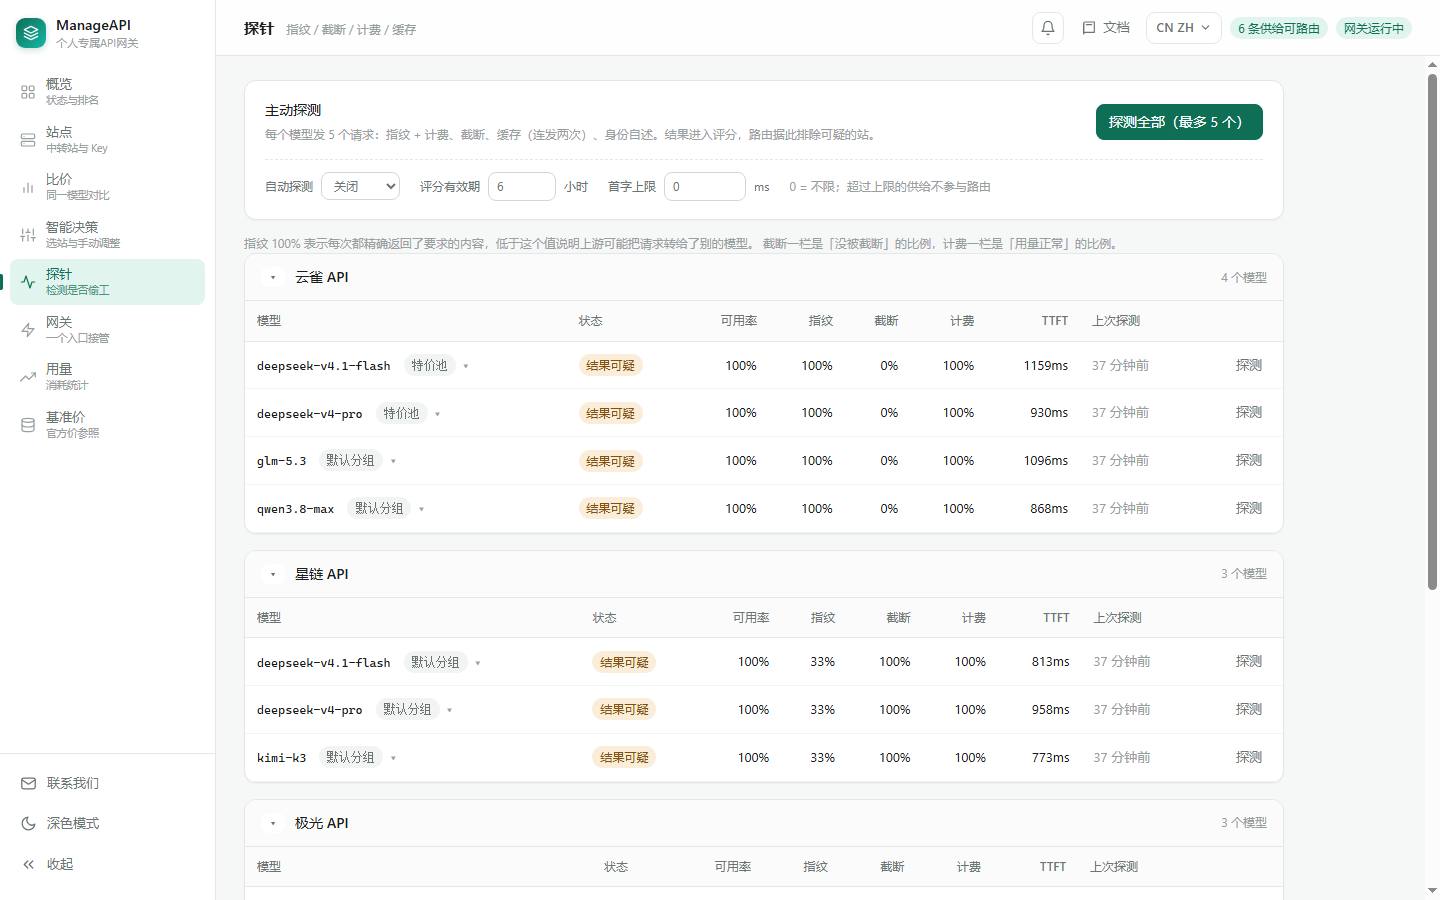
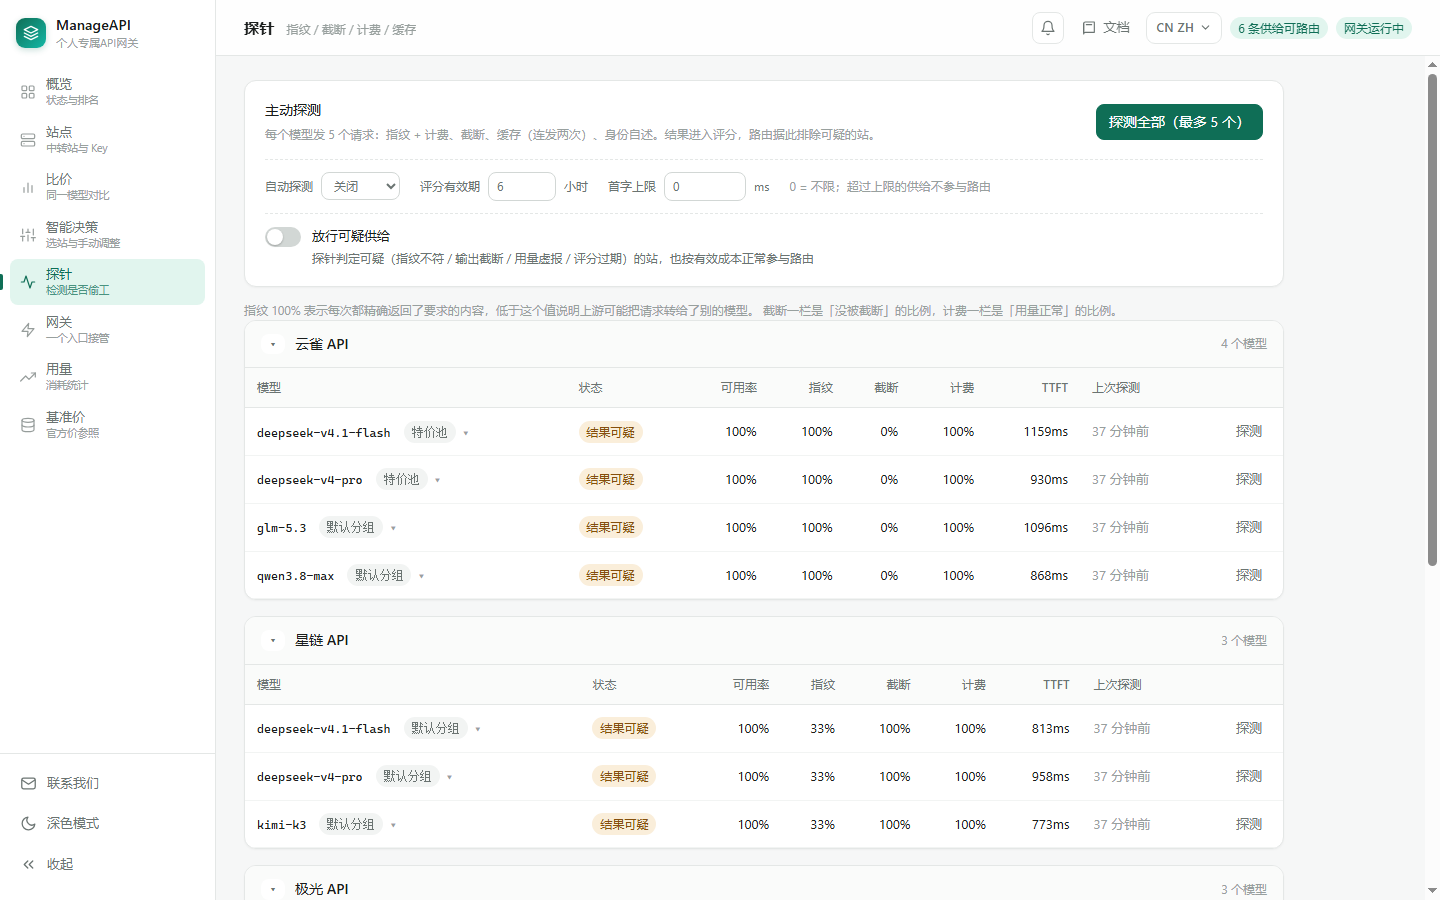
新增「放行可疑供给」开关：可疑/过期的供给也可按有效成本参与路由，默认关闭

diff --git a/web/index.html b/web/index.html
@@ -247,8 +247,10 @@
               · <b>恢复自动</b> —— 清掉手动顺序，回到按有效成本排
             </p>
             <p>
-              手动顺序只影响「同样可用」的那几条。不可信、太慢、评分过期的站永远排在后面，
+              手动顺序只影响「可用」的那几条。不可信、太慢、评分过期的站默认排在后面，
               你拖不动它——<b>可用性是硬判断，不能被手动覆盖</b>。
+              如果你确实想让可疑的站参与竞争，去探针页打开「放行可疑供给」，它们会正常参与排序，
+              状态列会标出「已放行」。
             </p>
 
             <h4 class="doc-h4">探针</h4>
@@ -269,7 +271,14 @@
               · <b>自动探测</b> —— 设间隔后后台定时跑。默认 1 小时，可以关掉。模型多的话建议设长一点，
               每次探测都要花一点 token。<br />
               · <b>评分有效期</b> —— 超过这个时间没重新探测，评分就作废、不再参与路由。<br />
-              · <b>首字上限</b> —— 超过这个延迟的供给不参与路由。0 表示不限。
+              · <b>首字上限</b> —— 超过这个延迟的供给不参与路由。0 表示不限。<br />
+              · <b>放行可疑供给</b> —— 默认关闭。关闭时，探针判定可疑（指纹不符 / 截断 / 虚报 / 评分过期）的站
+              只会排在最后兜底；打开后它们按有效成本正常参与竞争。
+            </p>
+            <p>
+              <b>打开这个开关要清楚代价</b>：可疑的站仍然按「价格 ÷ 质量」排序——质量差一半，成本就翻倍，
+              所以只有便宜到足够多才会被选中。但它确实可能给你返回掉包或截断的结果。
+              省钱优先就打开，输出可信优先就关着。首字上限是独立设置，不受这个开关影响。
             </p>
 
             <h4 class="doc-h4">网关</h4>
@@ -345,8 +354,13 @@
 
             <h4 class="doc-h4">③ 决策：先筛掉，再比价</h4>
             <p>
-              <b>硬约束</b> —— 不可信、太慢、评分过期的，直接排除。<br />
+              <b>硬约束</b> —— 不可信、太慢、评分过期的，默认排到最后只做兜底。<br />
               <b>有效成本排序</b> —— 剩下的按 <code>价格 ÷ 质量</code> 从小到大排。
+            </p>
+            <p>
+              「不可信」这一条是可以用探针页的 <b>放行可疑供给</b> 开关关掉的：打开后它们不再被压到后面，
+              而是和健康的站一起按有效成本竞争。太慢（首字上限）是独立设置，不受那个开关影响。
+              注意开关会同时影响比价页的「最便宜」和概览页的结论，保证推荐和实际路由是同一套口径。
             </p>
             <p>
               为什么用除法而不是加权求和？因为「便宜 10% 但降智 30%」的站，加权后可能仍然胜出；
@@ -528,8 +542,10 @@
               · <b>Back to auto</b> — clears the manual order
             </p>
             <p>
-              Manual order only affects rows that are equally usable. Untrusted, too-slow or expired supplies always
-              sink to the bottom and cannot be dragged up — <b>availability is a hard rule, not an opinion</b>.
+              Manual order only affects rows that are usable. Untrusted, too-slow or expired supplies sink to the
+              bottom by default and cannot be dragged up — <b>availability is a hard rule, not an opinion</b>.
+              If you do want suspicious sites to compete, turn on "Allow suspicious supplies" on the Probes page;
+              their status then reads "allowed".
             </p>
 
             <h4 class="doc-h4">Probes</h4>
@@ -550,7 +566,16 @@
               · <b>Auto probe</b> — runs in the background on an interval. Default 1 hour; can be turned off. With many
               models, set it longer — every probe costs a few tokens.<br />
               · <b>Score TTL</b> — a score older than this is discarded and no longer used for routing.<br />
-              · <b>TTFT limit</b> — supplies slower than this are excluded from routing. 0 means no limit.
+              · <b>TTFT limit</b> — supplies slower than this are excluded from routing. 0 means no limit.<br />
+              · <b>Allow suspicious supplies</b> — off by default. When off, sites the probes flagged
+              (fingerprint mismatch / truncated / inflated / expired score) are only a last resort; when on,
+              they compete on effective cost like everything else.
+            </p>
+            <p>
+              <b>Know the trade-off before turning it on</b>: suspicious sites still sort by price ÷ quality, so half
+              the quality doubles the cost — only a large enough discount wins. But they can genuinely return swapped
+              or truncated answers. Turn it on when saving money matters more; leave it off when trustworthy output does.
+              The TTFT limit is separate and unaffected.
             </p>
 
             <h4 class="doc-h4">Gateway</h4>
@@ -628,8 +653,14 @@
 
             <h4 class="doc-h4">③ Decision: filter first, then compare price</h4>
             <p>
-              <b>Hard constraints</b> — untrusted, too slow, expired: excluded outright.<br />
+              <b>Hard constraints</b> — untrusted, too slow, expired: pushed to the back as a last resort.<br />
               <b>Effective cost</b> — the rest are sorted by <code>price ÷ quality</code>, ascending.
+            </p>
+            <p>
+              The "untrusted" part can be switched off with <b>Allow suspicious supplies</b> on the Probes page: they
+              then compete on effective cost instead of being pushed back. The TTFT limit is separate and unaffected.
+              The switch also changes what Pricing calls "cheapest" and what the Overview concludes, so recommendations
+              and real routing always use the same rule.
             </p>
             <p>
               Why divide instead of weighting? Because "10% cheaper but 30% dumber" can still win a weighted sum, while

diff --git a/web/app.js b/web/app.js
@@ -810,7 +810,7 @@ function renderPricing() {
         maxTtft > 0 && typeof score?.ttftMs === 'number' && score.ttftMs > maxTtft
       const badge = tooSlow
         ? ' <span class="badge warn">超时</span>'
-        : row.trusted === false
+        : score?.probeTrusted === false
           ? ' <span class="badge warn">可疑</span>'
           : ''
       const cacheNote =
@@ -873,12 +873,18 @@ function renderPricing() {
 // --------------------------------------------------------------- 决策视图
 
 function decisionState(candidate) {
-  if (candidate.tooSlow) return { label: '太慢', cls: 'warn' }
-  if (candidate.status === 'stale') return { label: '评分过期', cls: 'warn' }
-  if (candidate.status === 'degraded') return { label: '结果可疑', cls: 'warn' }
-  if (candidate.status === 'unstable') return { label: '不稳定', cls: 'danger' }
-  if (candidate.status === 'unknown') return { label: '未探测', cls: '' }
-  return { label: '可用', cls: 'ok' }
+  if (candidate.tooSlow) return { label: t('太慢'), cls: 'warn' }
+  // 探针说可疑，但因为「放行可疑供给」开着，它照样参与选站——标出来别让人误以为是健康的
+  const passed = candidate.routable && candidate.probeOk === false
+  const tag = (label, cls) => ({
+    label: passed ? `${label} · ${t('已放行')}` : label,
+    cls: passed ? 'warn' : cls,
+  })
+  if (candidate.status === 'stale') return tag(t('评分过期'), 'warn')
+  if (candidate.status === 'degraded') return tag(t('结果可疑'), 'warn')
+  if (candidate.status === 'unstable') return tag(t('不稳定'), 'danger')
+  if (candidate.status === 'unknown') return tag(t('未探测'), '')
+  return { label: t('可用'), cls: 'ok' }
 }
 
 function renderDecision() {
@@ -1044,6 +1050,7 @@ function renderProbes() {
   const interval = Number(state.settings.probeIntervalMinutes) || 0
   const maxAge = Number(state.settings.scoreMaxAgeHours) || 6
   const maxTtft = Number(state.settings.maxTtftMs) || 0
+  const allowUntrusted = Boolean(state.settings.allowUntrusted)
   const intervalOptions = [
     [0, '关闭'],
     [30, '30 分钟'],
@@ -1076,6 +1083,26 @@ function renderProbes() {
           <input id="max-ttft" type="number" min="0" max="60000" step="500" value="${maxTtft}" style="width:82px" /> ms
         </label>
         <span class="hint" style="margin:0">0 = 不限；超过上限的供给不参与路由</span>
+      </div>
+      <div class="switch-row">
+        <label class="switch">
+          <input type="checkbox" id="allow-untrusted" ${allowUntrusted ? 'checked' : ''} />
+          <span class="switch-track"><span class="switch-knob"></span></span>
+          <span class="switch-text">
+            <b>放行可疑供给</b>
+            <span>探针判定可疑（指纹不符 / 输出截断 / 用量虚报 / 评分过期）的站，也按有效成本正常参与路由</span>
+          </span>
+        </label>
+        ${
+          allowUntrusted
+            ? `<div class="alert" style="margin-top:10px;background:var(--warn-soft);border-color:var(--warn-border)">
+                 <div>
+                   <div class="name">已放行：可疑的站会正常参与选站</div>
+                   <div class="desc">它们仍然按「价格 ÷ 质量」排序——质量差一半，成本就翻倍，只有便宜到足够多才会被选中。首字上限仍然独立生效。如果你更在意输出是否可信，把这个开关关掉。</div>
+                 </div>
+               </div>`
+            : ''
+        }
       </div>
     </div>`
 
@@ -2228,6 +2255,17 @@ document.addEventListener('change', async (event) => {
       state = await api('PATCH', '/api/settings', { maxTtftMs: ms })
       render()
       toast(ms > 0 ? `首字超过 ${ms}ms 的供给将被跳过` : '已取消首字延迟限制')
+    } catch (error) {
+      toast(error.message, true)
+    }
+    return
+  }
+
+  if (input.id === 'allow-untrusted') {
+    try {
+      state = await api('PATCH', '/api/settings', { allowUntrusted: input.checked })
+      render()
+      toast(input.checked ? '已放行可疑供给，它们会正常参与选站' : '已恢复：可疑供给只作为最后兜底')
     } catch (error) {
       toast(error.message, true)
     }

diff --git a/daemon/server.js b/daemon/server.js
@@ -81,15 +81,21 @@ async function buildState() {
   const benchmarks = await bench.readBenchmarks()
   const scoreMap = scoresFor(db)
   const maxTtftMs = Number(db.settings.maxTtftMs) || 0
-  // 没探过的保留，否则新用户永远看不到结论；
-  // 不可信、或超过用户设的首字上限，都不算「可用」
-  const isTrusted = (offerId) => {
+  // 用户开关：放行可疑供给。打开后探针判定不可信/过期的照样参与排序，
+  // 由「有效成本 = 价格 ÷ 质量」自己去权衡——质量差的价格会被除上去。
+  const allowUntrusted = Boolean(db.settings.allowUntrusted)
+
+  // 探针口径的可信度：没探过的保留（否则新用户永远看不到结论），
+  // 不可信、或超过首字上限的算不可信
+  const probeTrusted = (offerId) => {
     const score = scoreMap.get(offerId)
     if (!score || score.samples === 0) return true
     if (!isRoutable(score)) return false
     if (maxTtftMs > 0 && typeof score.ttftMs === 'number' && score.ttftMs > maxTtftMs) return false
     return true
   }
+  // 实际参与推荐/排序的口径：开关打开就全放行
+  const isTrusted = (offerId) => allowUntrusted || probeTrusted(offerId)
 
   const { ranked, unpriced } = pricing.rankByModel(db.offers, db.settings, benchmarks, isTrusted)
   const summary = pricing.summarize(db.offers, db.settings, benchmarks, isTrusted)
@@ -139,7 +145,13 @@ async function buildState() {
 
   const scores = {}
   for (const [offerId, score] of scoreMap) {
-    scores[offerId] = { ...score, routable: isRoutable(score) }
+    scores[offerId] = {
+      ...score,
+      // routable 表示「会不会参与路由」，受开关影响
+      routable: isTrusted(offerId),
+      // probeTrusted 是探针的原始判定，只用于界面打「可疑」标记，不受开关影响
+      probeTrusted: probeTrusted(offerId),
+    }
   }
 
   // 把缓存命中率与延迟挂到比价行上，供前端展示
@@ -262,6 +274,9 @@ route('PATCH', /^\/api\/settings$/, async (ctx) => {
       const v = Number(ctx.body.maxTtftMs)
       if (!Number.isFinite(v) || v < 0) throw new HttpError(400, '首字延迟上限不能为负')
       db.settings.maxTtftMs = v
+    }
+    if (ctx.body.allowUntrusted !== undefined) {
+      db.settings.allowUntrusted = Boolean(ctx.body.allowUntrusted)
     }
   })
   return buildState()

diff --git a/core/router.js b/core/router.js
@@ -2,8 +2,12 @@
  * 路由层：给定一个客户端请求的模型名，决定这一单交给谁。
  *
  * 决策规则（刻意做成可解释的两步，而不是加权打分）：
- *   1. 硬约束：只留评分健康（healthy）的供给
+ *   1. 硬约束：只留评分健康（healthy）的供给；首字超限的排除
  *   2. 排序：按「有效成本 = 名义价格 ÷ 质量」升序
+ *
+ * 但用户可以在探针页打开「放行可疑供给」：打开后探针判定不可信/过期的照样参与排序，
+ * 由「价格 ÷ 质量」自己去权衡——质量差一半，成本就翻倍，贵不到哪里去才轮得到它。
+ * 首字上限是独立的显式设置，不受这个开关影响。
  *
  * 全都不可用时不做硬拒绝——按价格排下去试，但在响应头标记 degraded。
  * 个人工具里「能用」通常比「严格」更重要。
@@ -28,6 +32,8 @@ function getScore(scores, offerId) {
 export function selectCandidates({ offers, providers, credentials, scores, benchmarks, settings, model, order }) {
   const key = normalizeModelKey(model)
   const maxTtftMs = Number(settings?.maxTtftMs) || 0
+  // 用户开关：探针说可疑的也让它正常参与排序（首字上限仍然独立生效）
+  const allowUntrusted = Boolean(settings?.allowUntrusted)
   const matched = offers.filter(
     (offer) =>
       offer.modelKey === key ||
@@ -75,7 +81,9 @@ export function selectCandidates({ offers, providers, credentials, scores, bench
       credential,
       price,
       quality,
-      routable: isRoutable(score) && !tooSlow,
+      // probeOk 是探针的原始判定；routable 是「这一单会不会考虑它」
+      probeOk: isRoutable(score),
+      routable: (allowUntrusted || isRoutable(score)) && !tooSlow,
       tooSlow,
       effective: effectiveCost(price, quality),
       status: score?.status || 'unknown',
@@ -138,6 +146,7 @@ export function explain(candidates) {
     quality: c.quality,
     effective: c.effective,
     routable: c.routable,
+    probeOk: c.probeOk,
     tooSlow: Boolean(c.tooSlow),
     ttftMs: c.ttftMs,
     status: c.status,

diff --git a/web/i18n.js b/web/i18n.js
@@ -675,3 +675,18 @@ Object.assign(EN, {
   '价格直接改，失焦即保存。「¥/百万 token」是综合成本：输入按 25%、输出按 75% 加权。美元标价的站按「基准价」页里的汇率换算。':
     'Edit prices inline; saved on blur. ¥/Mtok is a blended cost: 25% input, 75% output. USD-priced sites convert at the rate on the Benchmarks page.',
 })
+
+// 放行可疑供给（开关）
+Object.assign(EN, {
+  '太慢': 'Too slow',
+  '已放行': 'allowed',
+  '放行可疑供给': 'Allow suspicious supplies',
+  '探针判定可疑（指纹不符 / 输出截断 / 用量虚报 / 评分过期）的站，也按有效成本正常参与路由':
+    'Sites the probes flagged (fingerprint mismatch, truncated output, inflated usage, expired score) also compete on effective cost',
+  '已放行：可疑的站会正常参与选站':
+    'Enabled: suspicious sites now take part in routing',
+  '它们仍然按「价格 ÷ 质量」排序——质量差一半，成本就翻倍，只有便宜到足够多才会被选中。首字上限仍然独立生效。如果你更在意输出是否可信，把这个开关关掉。':
+    'They still sort by price ÷ quality, so half the quality doubles the cost — only a large enough discount wins. The TTFT limit still applies separately. Turn this off if you care more about trustworthy output.',
+  '已放行可疑供给，它们会正常参与选站': 'Suspicious supplies are now allowed to compete',
+  '已恢复：可疑供给只作为最后兜底': 'Restored: suspicious supplies are only a last resort',
+})

diff --git a/web/style.css b/web/style.css
@@ -999,3 +999,26 @@ button.group-chip:hover { color: var(--accent); }
 .doc[data-lang-block] { display: none; }
 html[data-lang='zh'] .doc[data-lang-block='zh'] { display: block; }
 html[data-lang='en'] .doc[data-lang-block='en'] { display: block; }
+
+/* ------------------------------------------------------------- 开关（switch） */
+.switch-row { margin-top: 12px; padding-top: 12px; border-top: 1px dashed var(--border); }
+.switch { display: flex; align-items: flex-start; gap: 11px; cursor: pointer; }
+.switch input { position: absolute; opacity: 0; width: 0; height: 0; }
+.switch-track {
+  position: relative; flex: none;
+  width: 36px; height: 20px; margin-top: 1px;
+  background: var(--border-strong); border-radius: 999px;
+  transition: background 0.16s;
+}
+.switch-knob {
+  position: absolute; top: 2px; left: 2px;
+  width: 16px; height: 16px; border-radius: 50%;
+  background: #fff; box-shadow: 0 1px 2px rgba(0, 0, 0, 0.25);
+  transition: transform 0.16s;
+}
+.switch input:checked + .switch-track { background: var(--accent); }
+.switch input:checked + .switch-track .switch-knob { transform: translateX(16px); }
+.switch input:focus-visible + .switch-track { outline: 2px solid var(--accent-mid); outline-offset: 2px; }
+.switch-text { display: flex; flex-direction: column; gap: 3px; line-height: 1.55; }
+.switch-text b { font-size: 13px; font-weight: 500; color: var(--text); }
+.switch-text span { font-size: 12px; color: var(--muted); }

diff --git a/core/store.js b/core/store.js
@@ -40,6 +40,9 @@ export function emptyDb() {
       scoreMaxAgeHours: 6,
       // 首字延迟上限（毫秒），0 = 不限
       maxTtftMs: 0,
+      // 放行可疑供给：默认 false，探针判定不可信/过期的会被排到后面。
+      // 打开后它们按有效成本正常参与竞争——风险由用户自己承担。
+      allowUntrusted: false,
     },
     providers: [],
     credentials: [],

diff --git a/README.md b/README.md
@@ -176,7 +176,9 @@ node daemon/index.js --open        # 启动后自动开浏览器
 质量     quality    = availability × integrity
 ```
 
-任一维度低于 0.8 就标记为不可用，不参与路由。
+任一维度低于 0.8 就标记为不可用，默认排到最后只做兜底。
+
+> **想让可疑的站也能用？** 探针页有个 **「放行可疑供给」** 开关。打开后，指纹不符 / 截断 / 虚报 / 评分过期的供给不再被压到后面，而是和健康的站一起按有效成本竞争——质量差一半成本就翻倍，所以只有便宜到足够多才会被选中。代价是它确实可能返回掉包或截断的结果，开关由你自己权衡。首字上限是独立设置，不受影响。
 
 状态：
 
@@ -222,7 +224,7 @@ node daemon/index.js --open        # 启动后自动开浏览器
 
 手动顺序只作用于「可用」的那几条：
 
-- 不可信 / 太慢 / 过期的供给永远排在后面，拖不动它——**可用性是硬判断，不能被手动覆盖**
+- 不可信 / 太慢 / 过期的供给默认排在后面，拖不动它——**可用性是硬判断，不能被手动覆盖**（想让它们参与竞争，去探针页打开「放行可疑供给」）
 - 新出现的供给如果不在手动顺序里，按自动排序追加在后面
 - 点「恢复自动」清掉手动顺序
 
